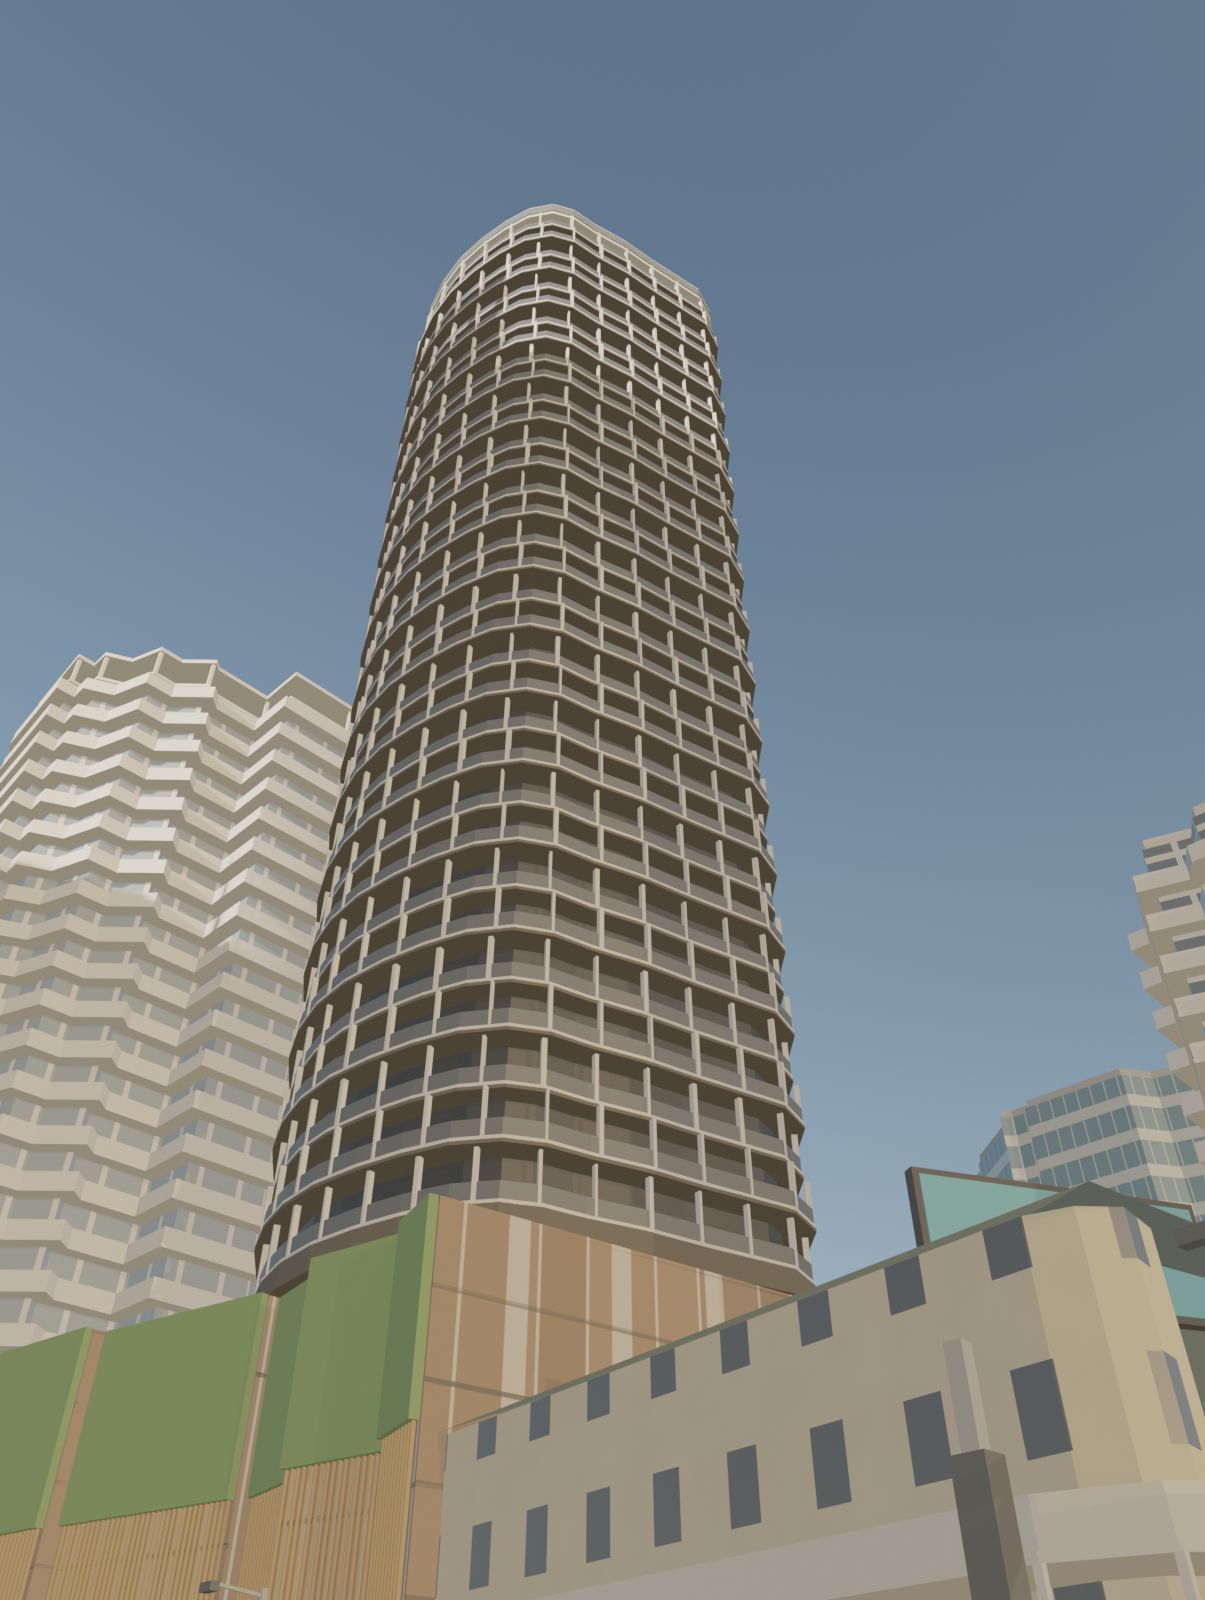
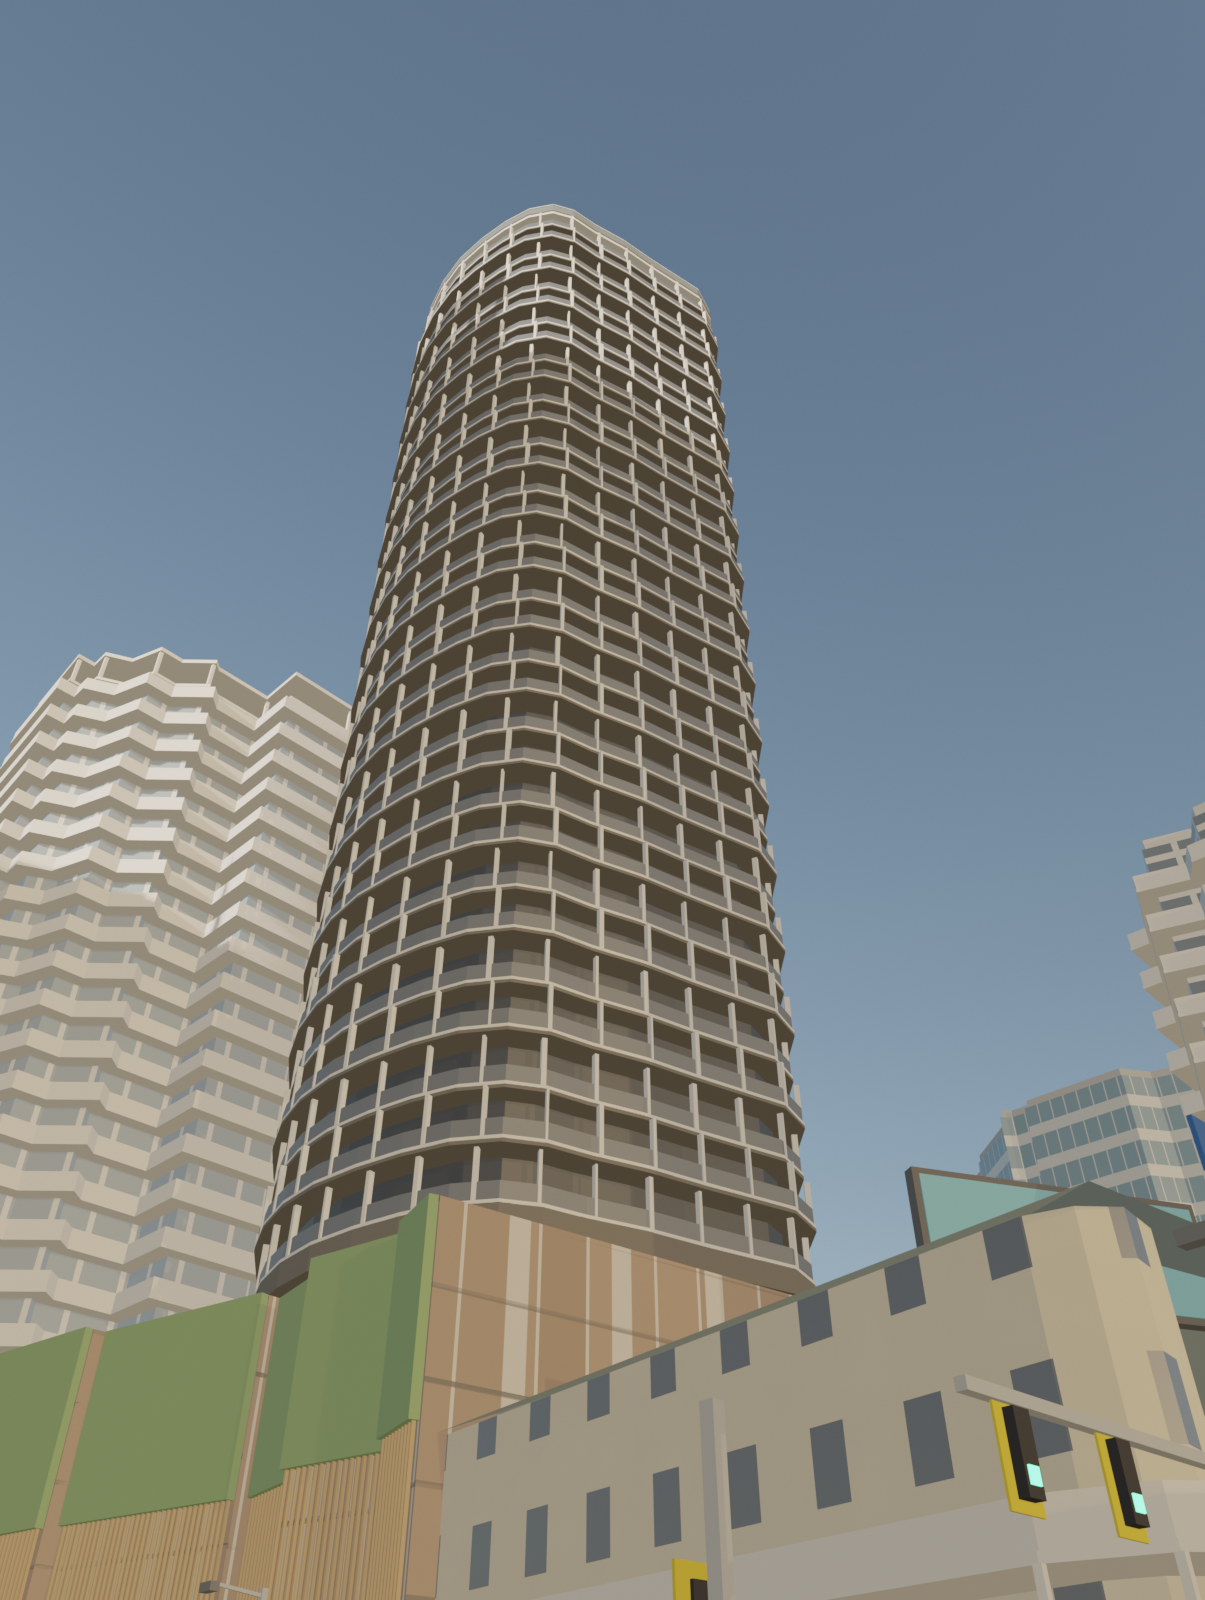
Spire step 7d: bitumen roads, clear line marking, Brisbane traffic lights and street name signs
- Roads: dark bitumen (#3a3b3d) with aggregate speckle and patch variation, separate from footpaths.
- Line marking 5 mm proud and following the road crown: lane lines 3 m / 9 m, double barrier on
  4+ lane two-way roads, edge lines, stop lines and zebra crossings at signals, red Ann St bus lane
  with BUS ONLY words, yellow no-stopping lines 20 m back from each signal.
- Traffic lights: poles at every corner of each OSM signal, black 3-aspect lanterns on yellow target
  boards with a lit aspect (green/red), pedestrian lanterns and push buttons, mast arms over wide roads.
- BCC blue street name blades with white names from OSM at the signal corners (80 blades).
- Street-level hero cams at Ann/Queen and on Ann St by the cathedral; thinner fig trunks.

Changed region(s): [[0.7676, 0.875, 1.0, 1.0], [0.9826, 0.6875, 1.0, 0.7188], [0.5527, 0.9688, 0.5834, 1.0]]

diff --git a/tools/blender/spire/streetscape.py b/tools/blender/spire/streetscape.py
@@ -25,8 +25,26 @@ def heading_to(a, b):
     return math.atan2(b[1] - a[1], b[0] - a[0])
 
 
+ROAD = {}   # set per node: centre point, across-direction and width, so marks follow the road crown
+
+
 def flat_quad(buf, pts, z_lift=0.06):
-    buf.add([(x, y, L.ground_z(x, y) + z_lift) for x, y in pts], [[0, 1, 2, 3]])
+    def z(x, y):
+        if ROAD:
+            cx, cy, nx, ny, wd = ROAD["c"]
+            v = abs((x - cx) * nx + (y - cy) * ny)
+            return L.ground_z(x, y) + 0.046 + 0.025 * max(0.0, wd / 2 - v) + 0.008
+        return L.ground_z(x, y) + z_lift
+    buf.add([(x, y, z(x, y)) for x, y in pts], [[0, 1, 2, 3]])
+
+
+def lantern(lant, board, lit_r, lit_g, x, y, z, ang, green):
+    """Brisbane 3-aspect lantern: black housing on a yellow target board, one aspect lit."""
+    board.box(x, y, z - 0.15, 0.75, 0.04, 1.35, ang)
+    nx, ny = math.cos(ang - math.pi / 2), math.sin(ang - math.pi / 2)
+    lant.box(x + nx * 0.06, y + ny * 0.06, z, 0.36, 0.25, 1.05, ang)
+    zz = z + (0.15 if green else 0.82)
+    (lit_g if green else lit_r).box(x + nx * 0.2, y + ny * 0.2, zz, 0.22, 0.03, 0.22, ang)
 
 
 def build():
@@ -35,6 +53,8 @@ def build():
     c = cat()
     col = C.collection("streetscape")
     o = L.osm()
+    lant, board, lit_r, lit_g, blade, yellow = (C.MeshBuf() for _ in range(6))
+    nblade = 0
     poles, heads, banners_b, banners_p, signs, sign_faces, boards, art1, art2, red, white, hedge, plant = (C.MeshBuf() for _ in range(13))
     counts = {}
     # ---------------------------------------------------------------- street lights along named streets
@@ -105,15 +125,43 @@ def build():
         wd = road_width(w["tags"])
         ux, uy = math.cos(ang), math.sin(ang)
         nx, ny = -uy, ux
+        ROAD["c"] = (x, y, nx, ny, wd)
         if sig:
-            for side in (1, -1):
-                px, py = x + nx * side * (wd / 2 + 0.8), y + ny * side * (wd / 2 + 0.8)
-                g = L.ground_z(px, py) + L.KERB_HEIGHT
-                poles.box(px, py, g, 0.18, 0.18, 5.0)
-                heads.box(px, py, g + 3.0, 0.35, 0.3, 1.1, ang)
+            names = sorted({ww["tags"].get("name") for ww in ways_of[e["id"]] if ww["tags"].get("name")})
+            for k, side in enumerate((1, -1)):
+                for fb in (1, -1):                                         # a pole at each corner
+                    px = x + nx * side * (wd / 2 + 0.8) + ux * fb * 3.0
+                    py = y + ny * side * (wd / 2 + 0.8) + uy * fb * 3.0
+                    g = L.ground_z(px, py) + L.KERB_HEIGHT
+                    poles.box(px, py, g, 0.18, 0.18, 5.2)
+                    face = ang + (0 if fb > 0 else math.pi)                # lantern faces oncoming traffic
+                    fx, fy = math.cos(face), math.sin(face)
+                    lantern(lant, board, lit_r, lit_g, px + fx * 0.25, py + fy * 0.25, g + 2.6, face + math.pi / 2,
+                            green=(k + (fb > 0)) % 2 == 0)
+                    lant.box(px - fx * 0.2, py - fy * 0.2, g + 2.2, 0.25, 0.2, 0.45, face)        # ped lantern
+                    (lit_r if (k + (fb > 0)) % 2 else lit_g).box(px - fx * 0.31, py - fy * 0.31, g + 2.3, 0.16, 0.02, 0.16, face)
+                    poles.box(px - fx * 0.12, py - fy * 0.12, g + 1.0, 0.12, 0.08, 0.18, face)       # push button
+                    if names and fb > 0:                                   # BCC blue blade, white name
+                        nm = names[(k) % len(names)]
+                        bang = ang if k == 0 else ang + math.pi / 2
+                        blade.box(px, py, g + 5.2, 2.2, 0.04, 0.42, bang)
+                        poles.box(px, py, g + 5.0, 0.1, 0.1, 0.6)
+                        for s2 in (1, -1):
+                            C.text_obj(col, "streetname", nm.upper().replace("STREET", "ST").replace("TERRACE", "TCE"),
+                                       (px - math.sin(bang) * 0.03 * s2, py + math.cos(bang) * 0.03 * s2, g + 5.41),
+                                       (math.radians(90), 0, bang + (0 if s2 > 0 else math.pi)), 0.26, (0.95, 0.95, 0.95))
+                        nblade += 1
                 if side == 1 and wd > 9:                                   # mast arm over the road
-                    poles.beam((px, py, g + 5.6), (px - nx * wd * 0.6, py - ny * wd * 0.6, g + 5.6), 0.15)
-                    heads.box(px - nx * wd * 0.45, py - ny * wd * 0.45, g + 4.8, 0.35, 0.3, 1.0, ang)
+                    px, py = x + nx * (wd / 2 + 0.8) - ux * 3.0, y + ny * (wd / 2 + 0.8) - uy * 3.0
+                    g = L.ground_z(px, py) + L.KERB_HEIGHT
+                    poles.box(px, py, g, 0.3, 0.3, 6.4)
+                    poles.beam((px, py, g + 6.2), (px - nx * wd * 0.7, py - ny * wd * 0.7, g + 6.2), 0.18)
+                    for f in (0.35, 0.6):
+                        lantern(lant, board, lit_r, lit_g, px - nx * wd * f, py - ny * wd * f, g + 5.0, ang + math.pi / 2, green=True)
+            for oo in (1, -1):                                             # yellow no-stopping lines 20 m back
+                kx, ky = x + nx * oo * (wd / 2 - 0.15), y + ny * oo * (wd / 2 - 0.15)
+                flat_quad(yellow, [(kx, ky), (kx - ux * 20, ky - uy * 20), (kx - ux * 20 + nx * 0.1, ky - uy * 20 + ny * 0.1),
+                                   (kx + nx * 0.1, ky + ny * 0.1)], 0.07)
             sx, sy = x - ux * 2.0, y - uy * 2.0                            # stop line
             flat_quad(white, [(sx + nx * wd / 2, sy + ny * wd / 2), (sx - nx * wd / 2, sy - ny * wd / 2),
                               (sx - nx * wd / 2 - ux * 0.4, sy - ny * wd / 2 - uy * 0.4), (sx + nx * wd / 2 - ux * 0.4, sy + ny * wd / 2 - uy * 0.4)])
@@ -126,7 +174,9 @@ def build():
                 flat_quad(white, [(cx - ux * 1.5, cy - uy * 1.5), (cx + ux * 1.5, cy + uy * 1.5),
                                   (cx + ux * 1.5 + nx * 0.5, cy + uy * 1.5 + ny * 0.5), (cx - ux * 1.5 + nx * 0.5, cy - uy * 1.5 + ny * 0.5)])
             ncross += 1
+    ROAD.clear()
     counts["signals"] = nsig
+    counts["street_name_blades"] = nblade
     counts["crossings"] = ncross
     # ---------------------------------------------------------------- signs
     for s in c["signs"]:
@@ -162,10 +212,25 @@ def build():
         wd = road_width(t)
         a, b = C.offset_line(pts, wd / 2 - 0.15), C.offset_line(pts, wd / 2 - 0.15 - bl["width_m"])
         m = len(pts)
-        red.add([(x, y, L.ground_z(x, y) + 0.055) for x, y in a] + [(x, y, L.ground_z(x, y) + 0.055) for x, y in b],
+        za = 0.046 + 0.025 * 0.15 + 0.006
+        zb = 0.046 + 0.025 * (0.15 + bl["width_m"]) + 0.006
+        red.add([(x, y, L.ground_z(x, y) + za) for x, y in a] + [(x, y, L.ground_z(x, y) + zb) for x, y in b],
                 [[i, m + i, m + i + 1, i + 1] for i in range(m - 1)])
         nb += 1
     counts["bus_lane_ways"] = nb
+    for w in o["ways"].values():                                           # BUS ONLY words every ~60 m
+        t2 = w.get("tags", {})
+        if t2.get("name") != bl["street"] or t2.get("highway") not in CAR:
+            continue
+        pts = C.densify(o["line"](w), 60.0)
+        wd = road_width(t2)
+        for (ax, ay), (bx, by) in zip(pts[:-1], pts[1:]):
+            if math.hypot(ax, ay) > 300:
+                continue
+            a2 = math.atan2(by - ay, bx - ax)
+            cx = ax - math.sin(a2) * (wd / 2 - 1.8)
+            cy = ay + math.cos(a2) * (wd / 2 - 1.8)
+            C.text_obj(col, "busonly", "BUS ONLY", (cx, cy, L.ground_z(cx, cy) + 0.046 + 0.025 * 1.8 + 0.012), (0, 0, a2 - math.pi / 2), 1.3, (0.9, 0.9, 0.86))
     for ar in c["lane_markings"]["turn_arrows"]:
         x, y = ar["xy"]
         h = math.radians(90 - ar["heading"])
@@ -201,6 +266,16 @@ def build():
             "banners_p": (0.85, 0.25, 0.55), "signs": (0.92, 0.92, 0.90), "sign_faces": (0.10, 0.45, 0.25),
             "boards": (0.15, 0.15, 0.16), "art1": (0.25, 0.65, 0.80), "art2": (0.80, 0.42, 0.12),
             "red": (0.55, 0.16, 0.12), "white": (0.93, 0.93, 0.90), "hedge": (0.42, 0.36, 0.28), "plant": (0.22, 0.42, 0.18)}
+    for name, buf, rgb, emit in (("lanterns", lant, (0.03, 0.03, 0.035), 0), ("target_boards", board, (0.85, 0.65, 0.05), 0),
+                                 ("lit_red", lit_r, (1.0, 0.08, 0.05), 6.0), ("lit_green", lit_g, (0.1, 1.0, 0.45), 6.0),
+                                 ("name_blades", blade, (0.04, 0.16, 0.50), 0), ("no_stopping_yellow", yellow, (0.92, 0.75, 0.10), 0)):
+        ob = buf.object("street_" + name, col, "roof")
+        if ob:
+            m = C.material_rgb("street_" + name, rgb)
+            if emit:
+                m["emit"] = emit
+            ob.data.materials[0] = m
+            objs.append(ob.name)
     for name, buf in (("poles", poles), ("heads", heads), ("banners_b", banners_b), ("banners_p", banners_p),
                       ("signs", signs), ("sign_faces", sign_faces), ("boards", boards), ("art1", art1), ("art2", art2),
                       ("red", red), ("white", white), ("hedge", hedge), ("plant", plant)):

diff --git a/tools/blender/spire/preview.py b/tools/blender/spire/preview.py
@@ -211,6 +211,31 @@ def setup_morning():
             bump.inputs["Strength"].default_value = 0.08
             nt.links.new(tex.outputs["Fac"], bump.inputs["Height"])
             nt.links.new(bump.outputs["Normal"], bsdf.inputs["Normal"])
+        if m.name == "clay_road":                        # step 7d: bitumen with aggregate speckle and patches
+            nt = m.node_tree
+            geo = nt.nodes.new("ShaderNodeNewGeometry")
+            sp = nt.nodes.new("ShaderNodeTexNoise")
+            sp.inputs["Scale"].default_value = 40.0
+            nt.links.new(geo.outputs["Position"], sp.inputs["Vector"])
+            pa = nt.nodes.new("ShaderNodeTexVoronoi")
+            pa.inputs["Scale"].default_value = 0.08
+            nt.links.new(geo.outputs["Position"], pa.inputs["Vector"])
+            ramp = nt.nodes.new("ShaderNodeValToRGB")
+            ramp.color_ramp.elements[0].color = (0.030, 0.031, 0.034, 1)
+            ramp.color_ramp.elements[1].color = (0.075, 0.075, 0.078, 1)
+            mixf = nt.nodes.new("ShaderNodeMath")
+            mixf.operation = "MULTIPLY_ADD"
+            nt.links.new(sp.outputs["Fac"], mixf.inputs[0])
+            mixf.inputs[1].default_value = 0.6
+            sepc = nt.nodes.new("ShaderNodeSeparateColor")
+            nt.links.new(pa.outputs["Color"], sepc.inputs[0])
+            nt.links.new(sepc.outputs[0], mixf.inputs[2])
+            nt.links.new(mixf.outputs[0], ramp.inputs["Fac"])
+            nt.links.new(ramp.outputs["Color"], bsdf.inputs["Base Color"])
+            bsdf.inputs["Roughness"].default_value = 0.9
+        if m.get("emit"):                                # lit signal aspects
+            bsdf.inputs["Emission Color"].default_value = m.diffuse_color
+            bsdf.inputs["Emission Strength"].default_value = m["emit"]
         if m.name == "clay_rock":                        # tuff cliff: grey-brown with vertical banding
             nt = m.node_tree
             geo = nt.nodes.new("ShaderNodeNewGeometry")
@@ -457,7 +482,8 @@ def finished(what, mode, times):
         setup_morning()
         pick = {c["id"]: c for c in L.CAMERAS + L.HERO_CAMERAS}
         for c in (pick["hero_bridge_hsw"], pick["hero_cathedral"], pick["cam_ann_queen_corner"], pick["cam_queen_st"],
-                  pick["hero_spire_facade"], pick["hero_cathedral_west_front"], pick["cam_ann_st_precinct"], pick["hero_spire_roof"]):
+                  pick["hero_spire_facade"], pick["hero_cathedral_west_front"], pick["cam_ann_st_precinct"], pick["hero_spire_roof"],
+                  pick["street_ann_queen"], pick["street_ann_cathedral"]):
             times[c["id"] + "_morning"] = cam_view(c, "morning")
         setup(mode)
 

diff --git a/tools/blender/spire/streets.py b/tools/blender/spire/streets.py
@@ -124,16 +124,21 @@ def build():
         crowned(roads, pts, wd, lift)
         n_car += 1
         lanes = int(L.tag_float(t, "lanes") or (2 if t["highway"] in ("primary", "secondary", "tertiary") else 1))
-        mz = lift + 0.012
-        if lanes >= 2 and t["highway"] != "service":
+        mz = lift + 0.005                                    # step 7d: 5 mm proud of the surface
+        zat = lambda off: mz + CROSSFALL * max(0.0, wd / 2 - abs(off))   # follow the crown
+        if t["highway"] != "service":
             oneway = t.get("oneway") == "yes"
-            if oneway:
+            if lanes >= 2 and oneway:
                 for k in range(1, lanes):
-                    dashes(lines, pts, -wd / 2 + k * wd / lanes, mz + CROSSFALL * abs(-wd / 2 + k * wd / lanes - 0) * 0)
-            else:
-                dashes(lines, pts, 0.0, mz + CROSSFALL * wd / 2, solid=lanes >= 4)
+                    of = -wd / 2 + k * wd / lanes
+                    dashes(lines, pts, of, zat(of), dash=3.0, gap=9.0, w=0.12)        # QLD lane line 3 m / 9 m
+            elif lanes >= 2:
+                dashes(lines, pts, 0.0, zat(0.0), dash=3.0, gap=9.0, w=0.12, solid=lanes >= 4)
+                if lanes >= 4:
+                    dashes(lines, pts, 0.25, zat(0.25), w=0.12, solid=True)          # double barrier line
             for side in (1, -1):
-                dashes(lines, pts, side * (wd / 2 - 0.4), mz, solid=True, w=0.1)
+                of = side * (wd / 2 - 0.35)
+                dashes(lines, pts, of, zat(of), solid=True, w=0.12)                   # edge lines
         if t["highway"] == "service" or t.get("sidewalk") == "no":
             n_drive += t.get("service") == "driveway"
             continue

diff --git a/tools/blender/spire/common.py b/tools/blender/spire/common.py
@@ -9,7 +9,7 @@ import layout as L
 COLOURS = {
     "ground": (0.46, 0.46, 0.44, 1),
     "water": (0.26, 0.27, 0.20, 1),          # Brisbane River: muddy brown-green
-    "road": (0.24, 0.24, 0.25, 1),
+    "road": (0.045, 0.046, 0.05, 1),       # step 7d: bitumen #3a3b3d (linear)
     "footpath": (0.62, 0.61, 0.58, 1),
     "footway": (0.55, 0.53, 0.50, 1),
     "building": (0.80, 0.80, 0.78, 1),
@@ -53,7 +53,7 @@ COLOURS = {
     "spire_soffit": (0.20, 0.19, 0.17, 1),     # recessed balcony soffits / walls, read dark-warm at distance      # #e8e6e0 white frame lattice and slab edges
     "spire_balustrade": (0.20, 0.22, 0.25, 1),
     "balustrade": (0.70, 0.80, 0.85, 1),
-    "line": (0.95, 0.95, 0.92, 1),          # road markings
+    "line": (0.89, 0.89, 0.86, 1),          # #f2f2ee          # road markings
     "line_yellow": (0.95, 0.80, 0.20, 1),
     "pole": (0.55, 0.57, 0.58, 1),
     "shotcrete": (0.66, 0.64, 0.60, 1),
@@ -82,6 +82,25 @@ def material(key):
         m.diffuse_color = COLOURS[key]
         m.roughness = 0.9
     return m
+
+
+def text_obj(col, name, body, loc, rot, size, rgb, emit=0.0):
+    """A Blender text object (street signs, road words)."""
+    cu = bpy.data.curves.new(name, "FONT")
+    cu.body = body
+    cu.size = size
+    cu.align_x = "CENTER"
+    cu.align_y = "CENTER"
+    cu.extrude = 0.005
+    ob = bpy.data.objects.new(name, cu)
+    ob.location = loc
+    ob.rotation_euler = rot
+    m = material_rgb("text_%s" % ("%.2f_%.2f_%.2f" % tuple(rgb)), rgb)
+    if emit:
+        m["emit"] = emit
+    cu.materials.append(m)
+    col.objects.link(ob)
+    return ob
 
 
 def material_rgb(name, rgb, window=None, shader="render", palette=None):

diff --git a/tools/blender/spire/layout.py b/tools/blender/spire/layout.py
@@ -341,6 +341,10 @@ HERO_CAMERAS.append({"id": "cam_ann_st_precinct", "pos": (-82.0, -27.0, 1.7), "l
 HERO_CAMERAS.append({"id": "hero_spire_roof", "pos": (-40.0, -70.0, 260.0), "look_at": (0.0, 4.0, 138.0),
                      "lens_mm": 40.0, "portrait": False, "photo": "fly by view 2 (top-down) + roof pool photos",
                      "note": "high over the SW, looking down at Spire's roof: pool, cabana, plant box, railing"})
+HERO_CAMERAS.append({"id": "street_ann_queen", "pos": (62.0, 96.0, 1.6), "look_at": (30.0, 50.0, 3.0),
+                     "lens_mm": 24.0, "portrait": False, "note": "Ann/Queen/Boundary junction at eye height, looking SW"})
+HERO_CAMERAS.append({"id": "street_ann_cathedral", "pos": (-52.0, -10.0, 1.6), "look_at": (-110.0, -60.0, 3.0),
+                     "lens_mm": 24.0, "portrait": False, "note": "Ann St outside the cathedral at eye height, looking SW"})
 HERO_CAMERAS.append({"id": "hero_spire_facade", "pos": (-62.0, 38.0, 24.0), "look_at": (-4.0, 6.0, 45.0),
                      "lens_mm": 35.0, "portrait": True,
                      "photo": "my_photos/spire/Spire-Residences street view Ann st 1.jpg + fly-by photos",

diff --git a/tools/blender/spire/trees.py b/tools/blender/spire/trees.py
@@ -73,7 +73,7 @@ def build():
             continue
         if s == "fig":
             r = 0.42 * h
-            trunks.box(x, y, g, 1.4, 1.4, h * 0.45)
+            trunks.box(x, y, g, 0.7, 0.7, h * 0.45)
             blob(crowns, x, y, g + h - 0.45 * r, r, 0.45 * r)
         elif s in ("jacaranda", "poinciana"):
             r = 0.38 * h
